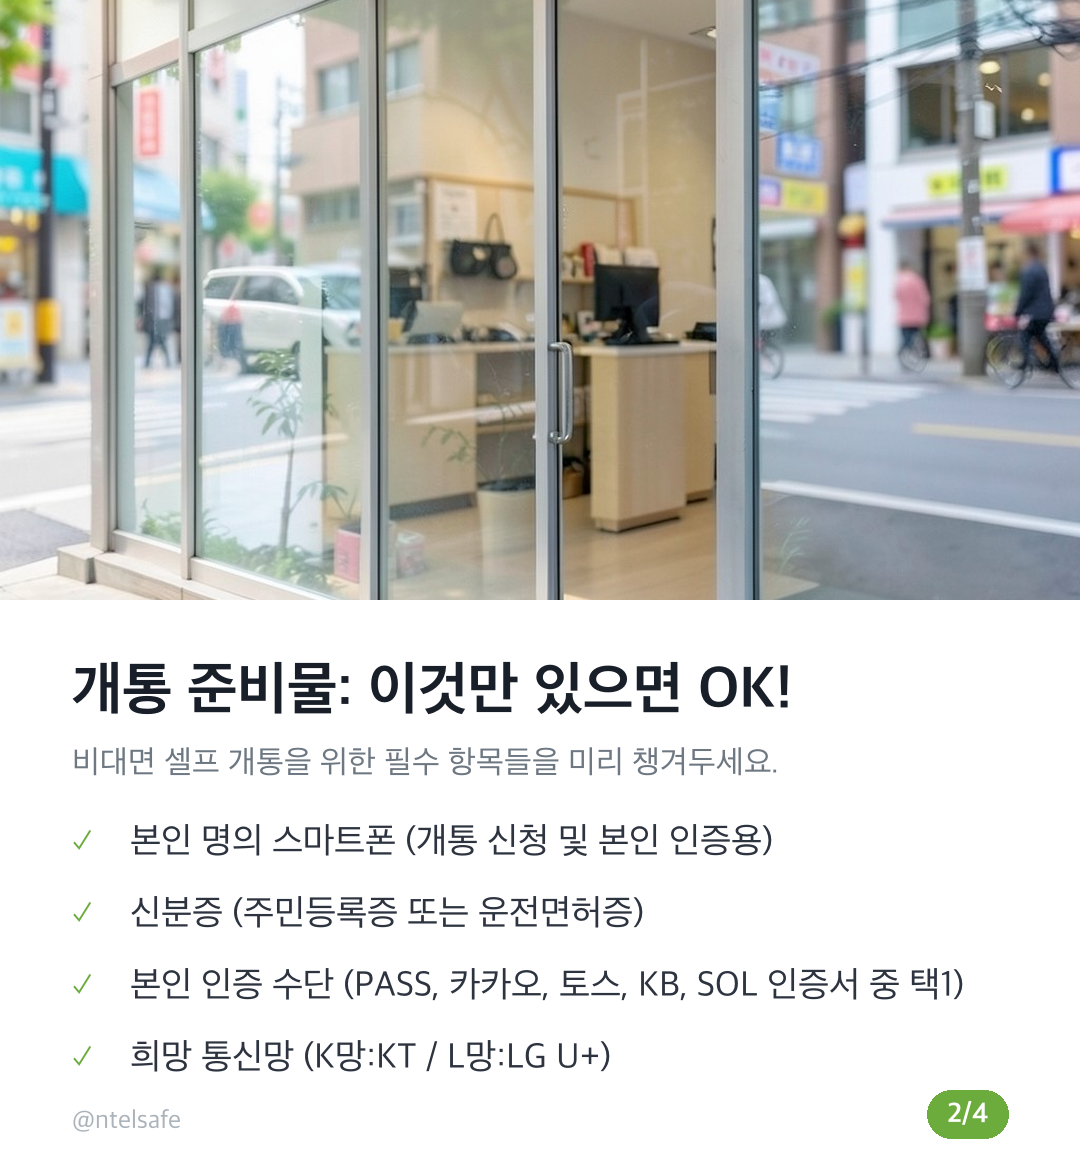
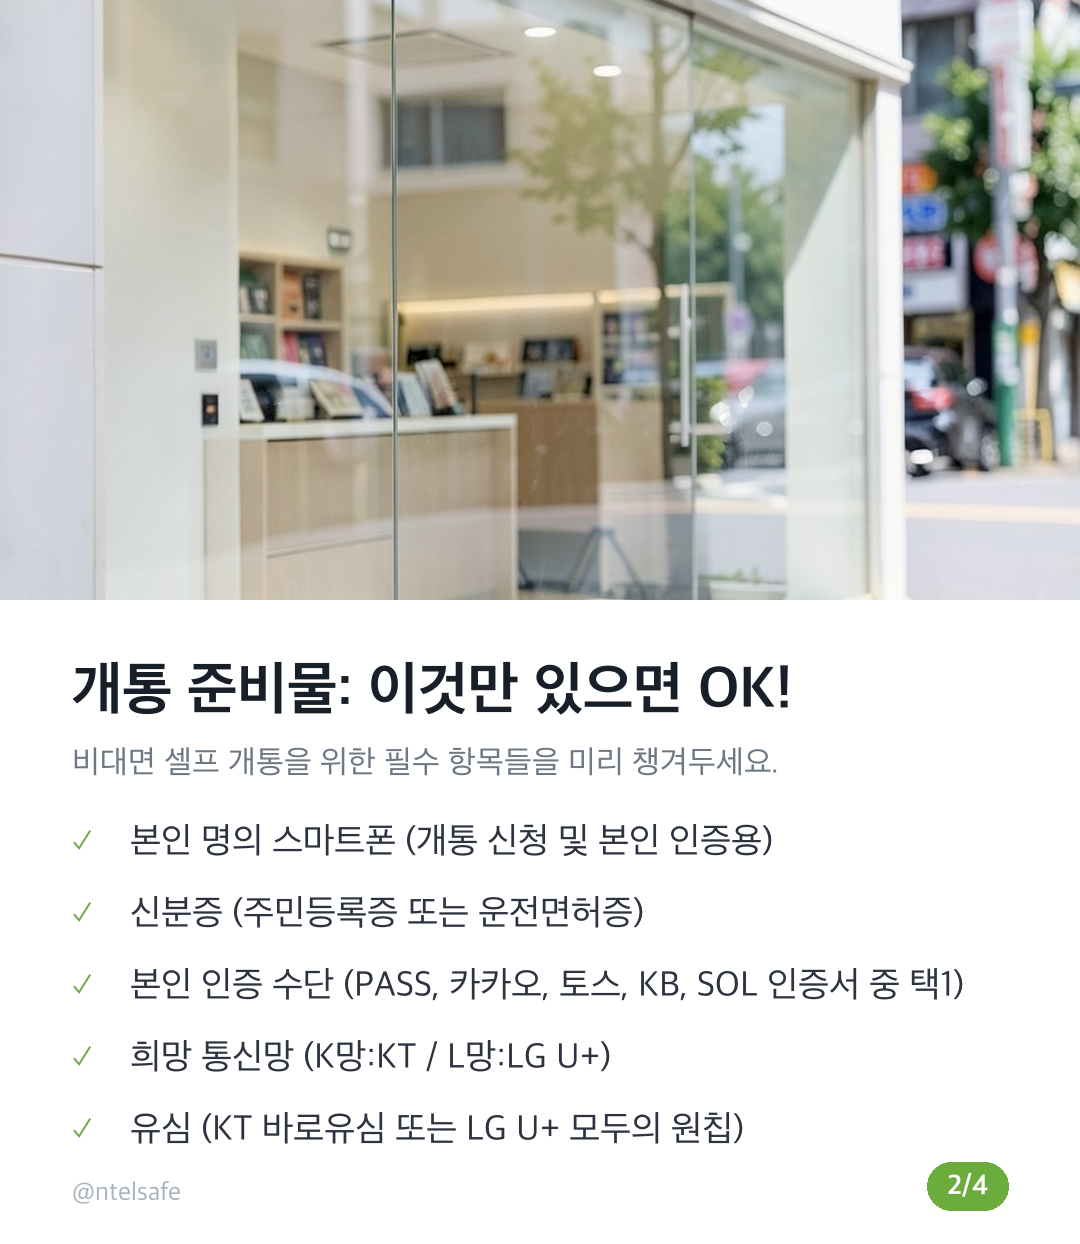
fix(cardnews): 박스 마지막 ✅ 항목 탈락 버그 — 블록 닫힘 태그를 항목 종결자로 인정
- extractChecklist가 <br>/다음 ✅만 종결자로 봐서, 각 박스의 마지막 항목이
  뒤따르는 본문을 삼켜 maxLen 초과로 조용히 탈락 (준비물 '유심', 요금제 859 등)
- </div> 등 블록 닫힘도 종결자로 추가 (</strong> 인라인은 제외)
- node:test 회귀 테스트 3건 추가 (node --test scripts/extract-card-data.test.mjs)
- 오늘(7/10) 카드뉴스 30장 재생성

diff --git a/lib/extract-card-data.ts b/lib/extract-card-data.ts
@@ -154,14 +154,19 @@ function extractHook(inner: string): string | undefined {
 
 /** 체크리스트(✅) 추출 — ✅ 다음 텍스트를 한 항목씩. maxItems/maxLen 조절 가능. */
 function extractChecklist(inner: string, maxItems = 4, maxLen = 50): string[] {
-  // ✅ 다음 텍스트를 <br>나 줄바꿈, 또는 다음 ✅까지 추출
+  // ✅ 다음 텍스트를 <br>·블록 닫힘 태그, 또는 다음 ✅까지 추출
   const items: string[] = [];
   const seen = new Set<string>();
   // ✅로 split해서 각 조각 정리
   const parts = inner.split(/✅\s*/);
   for (let i = 1; i < parts.length; i++) {
-    // 첫 <br> 또는 ✅ 이전까지가 한 항목
-    const raw = parts[i].split(/<br\s*\/?>/i)[0].split(/✅/)[0];
+    // 첫 <br>/블록 닫힘 또는 ✅ 이전까지가 한 항목.
+    // 블록 닫힘(</div> 등)도 종결자로 인정해야 박스의 "마지막 항목"이
+    // 뒤따르는 본문을 삼켜 길이 초과로 탈락하지 않는다 (2026-07-10 버그).
+    // </strong> 같은 인라인 닫힘은 항목 내부 강조이므로 종결자가 아님.
+    const raw = parts[i]
+      .split(/<br\s*\/?>|<\/(?:div|p|li|td|th|tr|ul|ol|h[1-6])>/i)[0]
+      .split(/✅/)[0];
     const txt = stripTags(raw);
     // 앞 16자(요금제명+가격 등 식별부) 기준 중복 제거 — K망/L망 표 중복 방지
     const key = txt.replace(/\s+/g, "").slice(0, 16);
